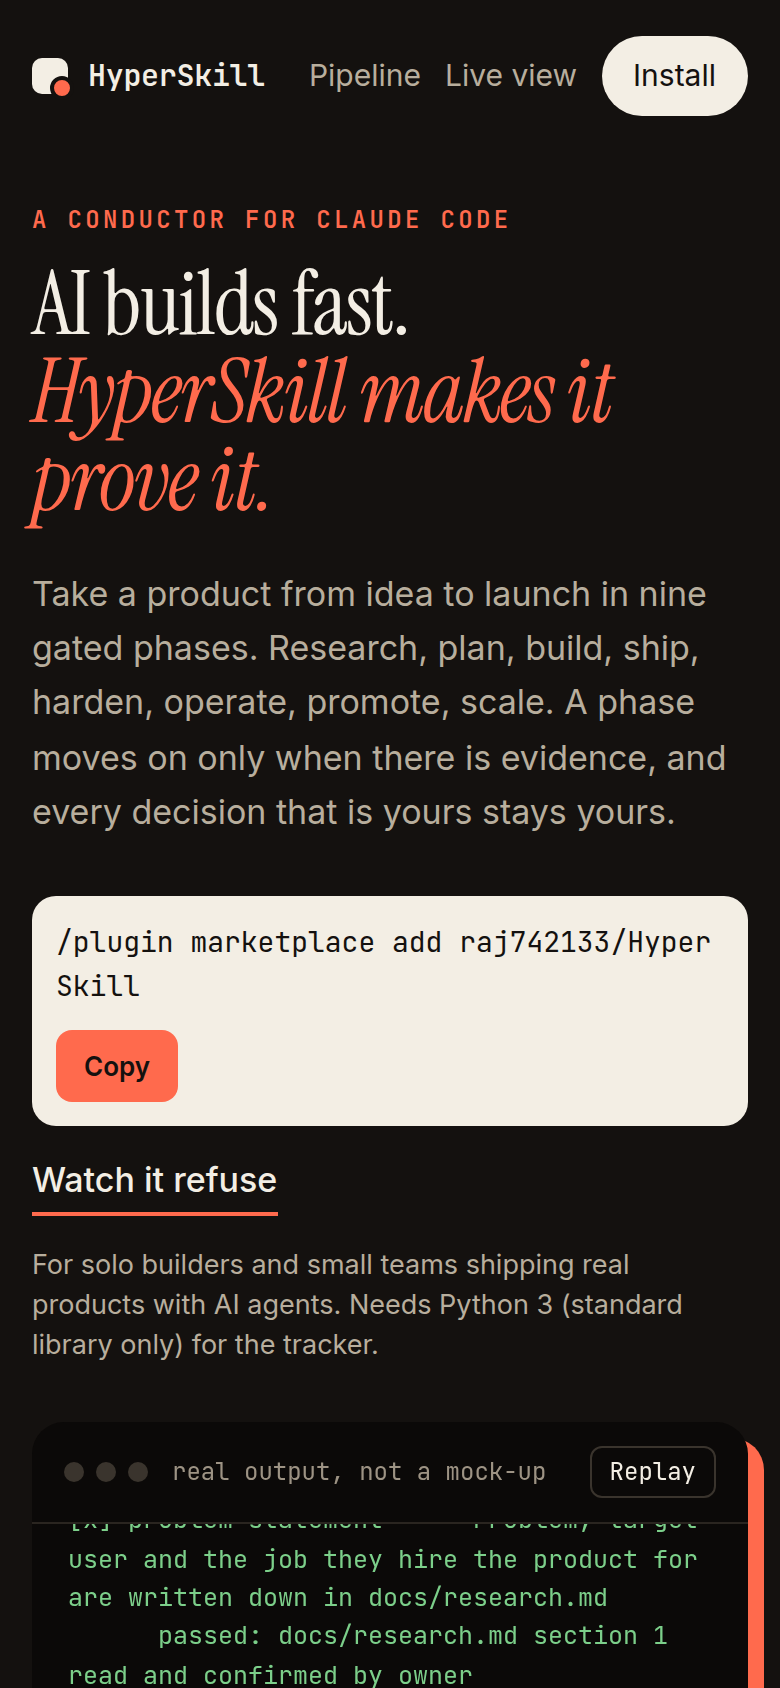
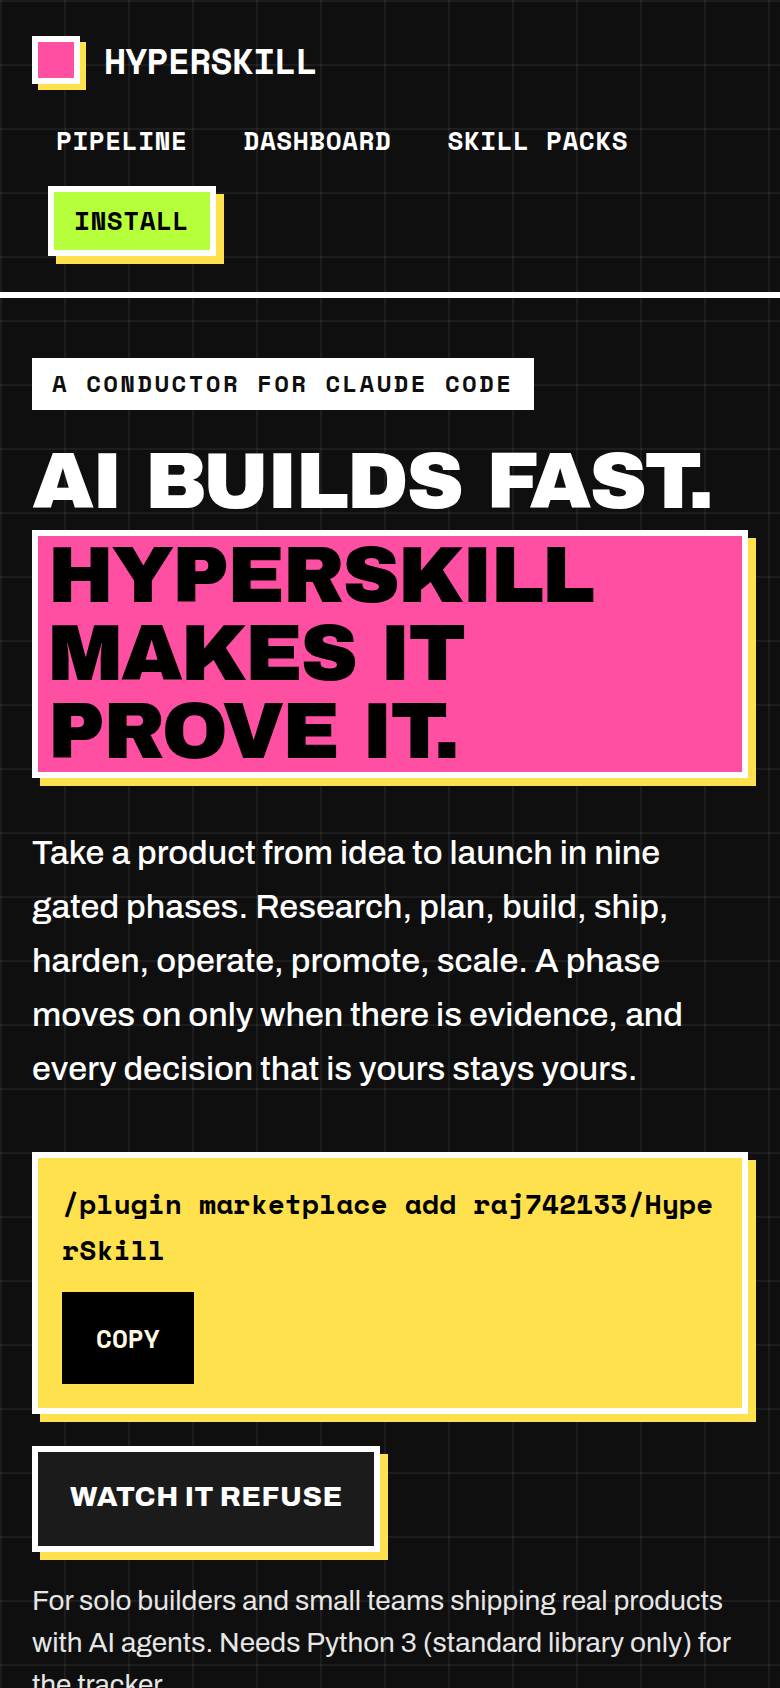
README: current item and test counts, hero images from the new site design
Claude-Session: https://claude.ai/code/session_01KHRvdBp9dNMhM5LyW9cT2y

diff --git a/README.md b/README.md
@@ -88,7 +88,7 @@ Phases ask for capabilities (a design direction, a security audit, video, browse
 
 <sub>The "Your idea" box. In this screenshot the findings were added by hand to show the screen; in use, Claude adds them after reading the brief.</sub>
 
-**Pick what to use, from the dashboard.** [`catalog.json`](skills/hyperskill/catalog.json) (801 items, built by `scripts/build_catalog.py` from the bundled packs) lists everything a person can choose, and the dashboard shows it as a picker with search, checkboxes, colour swatches and a live-gallery link:
+**Pick what to use, from the dashboard.** [`catalog.json`](skills/hyperskill/catalog.json) (822 items, built by `scripts/build_catalog.py` from the bundled packs) lists everything a person can choose, and the dashboard shows it as a picker with search, checkboxes, colour swatches and a live-gallery link:
 
 - **Sitewright, in full:** its 7 modules, 12 hero backgrounds, 10 sign-in backgrounds, 8 headline animations, button, card and scroll effects, 4 page extras, 7 ready-made looks, 22 interactive line figures and 58 components (16 charts among them), plus the theme. Your picks become the exact `site.json` fragment (`hyperskill.py catalog sitewright`).
 - **UI UX Pro Max:** 88 visual styles, 34 landing-page patterns, 74 font pairings and 192 colour palettes (with swatches).
@@ -306,7 +306,7 @@ site/                  the static launch site (Vercel; vercel.json); site/live i
 examples/duesoon/      full nine-phase run
 examples/chaser/       research, plan and build of the second run
 docs/                  sources, integration review, README images
-tests/                 329 tests for the tracker, resolver, hook, dashboard server and its controls, skill plan, catalogue, brief, previews, structure and site
+tests/                 348 tests for the tracker, resolver, hook, dashboard server and its controls, skill plan, catalogue, brief, previews, structure and site
 ```
 
 ## Develop
